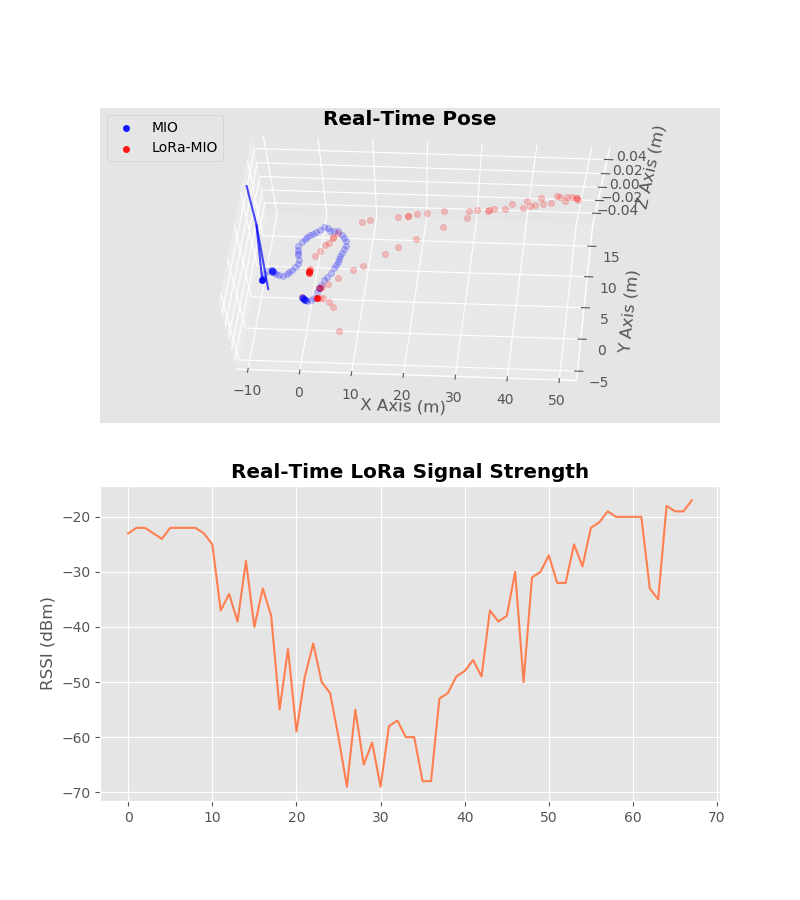
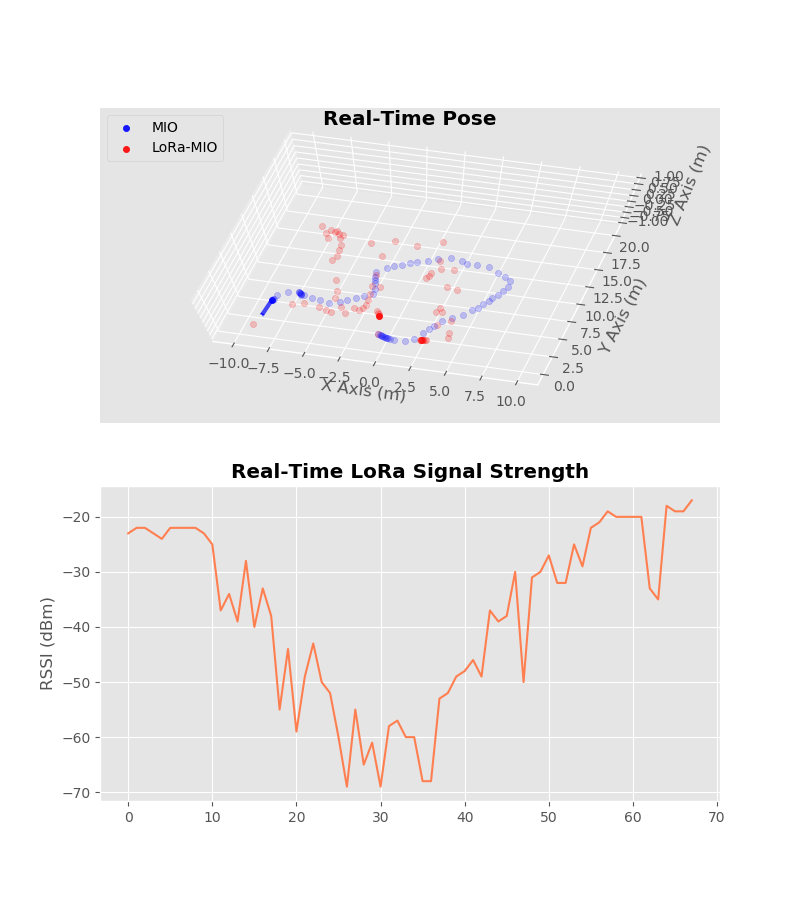
Added PL Model Params as Global Var;Initial Tweek towards similar MIO & LoRaMIO

diff --git a/replay.py b/replay.py
@@ -17,7 +17,7 @@ def HJacobian_at_ZYaw(x, anchor=1):
     denom = (X - R1[anchor-1, 0])**2 + (Y - R1[anchor-1, 1])**2
     if denom < 0.25:
         denom = 0.25
-    a = -28.57*math.log10(math.e)
+    a = ALPHA*math.log10(math.e)
     # HJabobian in (4, 4) if ONE LoRa RX; (6, 4) if THREE LoRa RXs available
     Jacob = array([[0, 0, -dt * V * math.sin(theta), dt * math.cos(theta)],
                    [0, 0, dt * V * math.cos(theta), dt * math.sin(theta)],
@@ -38,11 +38,12 @@ def hx_ZYaw(x, anchor=1):
     h = array([trans_x, trans_y, abs_yaw]).reshape((-1, 1))
     for row in range(0, anchor):
         dis = np.linalg.norm(x[:2, 0] - R1[row, :2])
-        if dis > 0.5:
+        thres_dis = 0.5
+        if dis > thres_dis:
             # RSSI Regression Model
-            rssi = -28.57*math.log10(dis) - 5.06
+            rssi = ALPHA*math.log10(dis) - BETA
         else:
-            rssi = -28.57*math.log10(0.5) - 5.06
+            rssi = ALPHA*math.log10(thres_dis) - BETA
         
         # Measurement comprises (X, Y, abs_Yaw, RSSIs...)
         h = np.vstack((h, array([[rssi]])))
@@ -59,13 +60,13 @@ class EKF_Fusion_MultiRX(EKF_Fusion):
         self.anchor = anchor
         super().__init__(dim_z=2+self.anchor, dt=dt, visual=visual)
         # TWEEK PARAMS
-        self.my_kf.x = np.array([0., 0., math.pi/4, 0.1]).reshape(-1, 1)
+        self.my_kf.x = np.array([0., 0., 0., 0.1]).reshape(-1, 1)
         self.my_kf.P = np.diag(np.array([1., 1., 10., 20.]))
         self.my_kf.Q = np.diag(np.array([.01, .01, 1.0, 0.1]))
         
-        measure_noise = np.array([1.**2, 1.**2, 4.887**2])
+        measure_noise = np.array([1.**2, 1.**2, SIGMA**2])
         for dim in range(1, self.anchor):
-            measure_noise = np.hstack((measure_noise, np.array([4.887**2])))
+            measure_noise = np.hstack((measure_noise, np.array([SIGMA**2])))
         self.my_kf.R = np.diag(measure_noise)
         
     def sim_run(self):
@@ -86,13 +87,15 @@ class EKF_Fusion_MultiRX_ZYaw(EKF_Fusion):
         self.anchor = anchor
         super().__init__(dim_z=3+self.anchor, dt=dt, visual=visual)
         # TWEEK PARAMS
-        self.my_kf.x = np.array([0., 0., math.pi/2, 0.3]).reshape(-1, 1)
-        self.my_kf.P = np.diag(np.array([10., 10., 20., 20.]))
-        self.my_kf.Q = np.diag(np.array([.0, .0, 0.0, 0.01]))
+        self.my_kf.x = np.array([0., 0., 0., 0.3]).reshape(-1, 1)
+        # Error Cov of Initial State
+        self.my_kf.Q = np.diag(np.array([.01, .01, 1.0, 1.0]))
+        # Process Noise Cov
+        self.my_kf.P = np.diag(np.array([1., 1., 0., 1.]))
         # Initial R doesn't matter; it is updated @run_rt
-        measure_noise = np.array([1.**2, 1.**2, .1**2, 4.887**2])
+        measure_noise = np.array([1.**2, 1.**2, .1**2, SIGMA**2])
         for dim in range(1, self.anchor):
-            measure_noise = np.hstack((measure_noise, np.array([4.887**2])))
+            measure_noise = np.hstack((measure_noise, np.array([SIGMA**2])))
         self.my_kf.R = np.diag(measure_noise)
         
         
@@ -110,9 +113,11 @@ class EKF_Fusion_MultiRX_ZYaw(EKF_Fusion):
             #print("Measurement:\n", z)
             
             # Refresh Measurement noise R
-            self.my_kf.R[0, 0] = 0.0001#self.sigma_list[-g][0]**2
-            self.my_kf.R[1, 1] = 0.0001#self.sigma_list[-g][1]**2
-            self.my_kf.R[2, 2] = 0.0001#self.sigma_list[-g][5]**2 # Sigma of rot_z or Yaw
+            # Tip1: (x, y) should be noisy; Tip2: large noise for RSSI
+            self.my_kf.R[0, 0] = 10.#self.sigma_list[-g][0]**2
+            self.my_kf.R[1, 1] = 10.#self.sigma_list[-g][1]**2
+            self.my_kf.R[2, 2] = 0.01#self.sigma_list[-g][5]**2 # Sigma of rot_z or Yaw
+            self.my_kf.R[3, 3] = 5*SIGMA**2
             # Refresh State Transition Martrix: F
             self.my_kf.F = eye(4) + array([[0, 0, -self.dt * self.my_kf.x[3, 0] * math.sin(self.my_kf.x[2, 0]), self.dt * math.cos(self.my_kf.x[2, 0])],
                                   [0, 0, self.dt * self.my_kf.x[3, 0] * math.cos(self.my_kf.x[2, 0]), self.dt * math.sin(self.my_kf.x[2, 0])],

diff --git a/EKF.py b/EKF.py
@@ -23,6 +23,10 @@ R1 = np.array([[0., 0., 0.],
                [0., 4., 0.],
                [5., 4., 0.],
                [2., -2.5, 0.]])
+# Path Loss Model params
+ALPHA = -59#-28.57
+BETA = -5.06
+SIGMA = 4.887
 
 
 def HJacobian_at(x, anchor=1):
@@ -36,7 +40,7 @@ def HJacobian_at(x, anchor=1):
     denom = (X - R1[anchor-1, 0])**2 + (Y - R1[anchor-1, 1])**2
     if denom < 0.25:
         denom = 0.25
-    a = -28.57*math.log10(math.e)
+    a = ALPHA*math.log10(math.e)
     # HJabobian in (3, 4) if ONE LoRa RX; (5, 4) if THREE LoRa RXs available
     Jacob = array([[0, 0, -dt * V * math.sin(theta), dt * math.cos(theta)],
                                      [0, 0, dt * V * math.cos(theta), dt * math.sin(theta)]])
@@ -57,13 +61,13 @@ def hx(x, anchor=1):
     h = array([trans_x, trans_y]).reshape((-1, 1))
     for row in range(0, anchor):
         dis = np.linalg.norm(x[:2, 0] - R1[row, :2])
-        
-        if dis > 0.5:
+        thres_dis = 0.5
+        if dis > thres_dis:
             # RSSI Regression Model
-            rssi = -28.57*math.log10(dis) - 5.06
+            rssi = ALPHA*math.log10(dis) - BETA
             
         else:
-            rssi = -28.57*math.log10(0.5) - 5.06
+            rssi = ALPHA*math.log10(thres_dis) - BETA
         
         # Measurement comprises (X, Y, RSSIs)
         h = np.vstack((h, array([[rssi]])))
@@ -178,7 +182,7 @@ class EKF_Fusion():
 
         # Measurement Noise: R Can be defined Dynamic with MDN-Sigma!
         # my_kf.R = 4.887 # if using 1-dimension Measurement
-        self.my_kf.R = np.diag(np.array([1.**2, 1.**2, 4.887**2]))
+        self.my_kf.R = np.diag(np.array([1.**2, 1.**2, SIGMA**2]))
 
         # Process Noise: Q
         self.my_kf.Q = array([[0, 0, 0, 0],
@@ -370,7 +374,8 @@ class EKF_Fusion():
         self.handle_scat_ekf = self.ax21.scatter([self.xs[-1][0, 0]], [self.xs[-1][1, 0]], [0.], color='r', marker='o', alpha=.9, label='LoRa-MIO')
         # Not Attempting to Visual EKF Updated Orientation
         #self.handle_arrw_ekf = self.ax21.quiver([self.my_kf.x[0, 0]], [self.my_kf.x[1, 0]], [self.my_kf.x[2, 0]], self.U_ekf, self.V_ekf, self.W_ekf, color='r', length=1., alpha=.7)
-        
+        # Manually Equal Axis and Limit
+        self.ax21.auto_scale_xyz([-10, 10], [0, 20], [-1, 1])
         
         self.ax22.clear()
         self.ax22.set_title("Real-Time LoRa Signal Strength", fontweight='bold')
@@ -405,7 +410,8 @@ class EKF_Fusion():
             self.set_view(self.path[-1][0], self.path[-1][1], self.path[-1][2], self.U, self.V, self.W, self.xs[-1][0, 0], self.xs[-1][1, 0], 0.)
         
     def set_view(self, x=0, y=0, z=0, u=1, v=0, w=0, X=0, Y=0, Z=0):
-        self.ax21.view_init(elev=60., azim=-75)
+        
+        self.ax21.view_init(elev=75., azim=-75)
         self.ax21.set_title("Real-Time Pose", fontweight='bold')
         self.ax21.set_xlabel('X Axis (m)')
         self.ax21.set_ylabel('Y Axis (m)')
